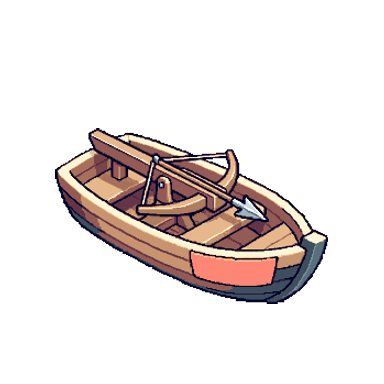
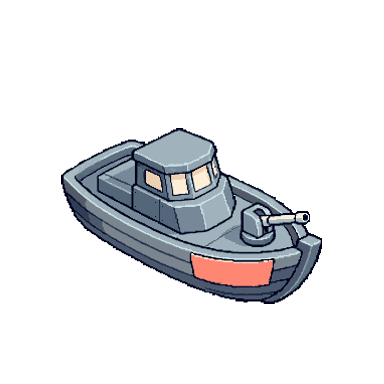
art: replace naval boats with distinct steel warships

Changed region(s): [[0.125, 0.3125, 0.875, 0.8125]]

diff --git a/scripts/art/ruleset7-naval-review.ts b/scripts/art/ruleset7-naval-review.ts
@@ -67,6 +67,14 @@ interface RecordEntry {
       readonly sha256?: string;
     };
   };
+  readonly rejectedAttempts?: readonly {
+    readonly request?: {
+      readonly styleReference?: {
+        readonly id?: string;
+        readonly sha256?: string;
+      };
+    };
+  }[];
 }
 
 const source = JSON.parse(
@@ -741,10 +749,15 @@ async function assertReceiptsAndOrder(): Promise<void> {
   );
   if (
     patrolReference?.id !== unitIds[0] ||
-    patrolReference.sha256 !== historical.sha256 ||
+    patrolReference.sha256 !== generated.records[unitIds[0]]?.outputSha256 ||
     historical.id !== unitIds[0] ||
     hash(await readFile(path.join(root, historical.path))) !==
       historical.sha256 ||
+    !generated.records[unitIds[1]]?.rejectedAttempts?.some(
+      (attempt) =>
+        attempt.request?.styleReference?.id === historical.id &&
+        attempt.request.styleReference.sha256 === historical.sha256,
+    ) ||
     battleshipReference?.id !== unitIds[1] ||
     battleshipReference.sha256 !== generated.records[unitIds[1]]?.outputSha256
   )
@@ -769,8 +782,9 @@ async function writeEvidence(): Promise<void> {
       portraits: unitIds,
     },
     providerStyleReferences: {
-      patrolBoat: recipes.get(unitIds[1])?.historicalStyleReference,
+      patrolBoat: generated.records[unitIds[1]]?.request?.styleReference,
       battleship: generated.records[unitIds[2]]?.request?.styleReference,
+      historicalPatrolBoat: recipes.get(unitIds[1])?.historicalStyleReference,
     },
     conditionalNavigationSymbol: "not-generated-deep-water-readable",
     checks: {
@@ -804,7 +818,7 @@ async function writeEvidence(): Promise<void> {
   );
   await writeFile(
     path.join(reviewRoot, "README.md"),
-    "# Ruleset 7 naval review\n\nChecked evidence for the eight accepted revision-6 naval sources. The sheets cover source, enlarged and native display; water seams and repetition; resource, Port and fleet composition at every supported zoom and DPR; and dense 11 × 11 and 25 × 25 art fixtures. These fixtures review art composition and do not claim runtime renderer coverage. Deep Water remains readable as the Navigation reuse source, so the conditional symbol was not generated.\n",
+    "# Ruleset 7 naval review\n\nChecked evidence for six retained revision-6 naval sources and the revision-7 Patrol Boat and Battleship replacements. The sheets cover source, enlarged and native display; water seams and repetition; resource, Port and fleet composition at every supported zoom and DPR; and dense 11 × 11 and 25 × 25 art fixtures. These fixtures review art composition and do not claim runtime renderer coverage. Deep Water remains readable as the Navigation reuse source, so the conditional symbol was not generated.\n",
   );
 }
 

diff --git a/tests/unit/ruleset7-naval-assets.test.ts b/tests/unit/ruleset7-naval-assets.test.ts
@@ -134,8 +134,7 @@ describe("Ruleset 7 naval assets", () => {
       receiptFor("unit-original-patrol-boat")?.request.styleReference,
     ).toMatchObject({
       id: "unit-shared-embarked-transport",
-      sha256:
[1 lines of base64/hex data omitted]
+      sha256: generated.records["unit-shared-embarked-transport"]?.outputSha256,
     });
     expect(
       hash(
@@ -147,6 +146,14 @@ describe("Ruleset 7 naval assets", () => {
         ),
       ),
[1 lines of base64/hex data omitted]
+    expect(
+      generated.records["unit-original-patrol-boat"]?.rejectedAttempts?.some(
+        (attempt) =>
+          JSON.stringify(attempt).includes(
[1 lines of base64/hex data omitted]
+          ),
+      ),
+    ).toBe(true);
     expect(
       receiptFor("unit-original-battleship")?.request.styleReference,
     ).toMatchObject({

diff --git a/art/pixellab/reviews/ruleset7-naval/README.md b/art/pixellab/reviews/ruleset7-naval/README.md
@@ -1,3 +1,3 @@
 # Ruleset 7 naval review
 
-Checked evidence for the eight accepted revision-6 naval sources. The sheets cover source, enlarged and native display; water seams and repetition; resource, Port and fleet composition at every supported zoom and DPR; and dense 11 × 11 and 25 × 25 art fixtures. These fixtures review art composition and do not claim runtime renderer coverage. Deep Water remains readable as the Navigation reuse source, so the conditional symbol was not generated.
+Checked evidence for six retained revision-6 naval sources and the revision-7 Patrol Boat and Battleship replacements. The sheets cover source, enlarged and native display; water seams and repetition; resource, Port and fleet composition at every supported zoom and DPR; and dense 11 × 11 and 25 × 25 art fixtures. These fixtures review art composition and do not claim runtime renderer coverage. Deep Water remains readable as the Navigation reuse source, so the conditional symbol was not generated.

diff --git a/docs/art/classes/naval.md b/docs/art/classes/naval.md
@@ -10,8 +10,9 @@ It also follows the active square geometry in the
 this file does not give a naval-specific value.
 
 Revision 6 requires real production raster art. Revision 7 replaces the Patrol
-Boat and Battleship sources under their existing asset IDs; the checked-in
-revision-6 sprites remain current runtime evidence until that asset bead lands.
+Boat and Battleship sources under their existing asset IDs. Those replacement
+sprites are accepted production art; revision-7 gameplay integration remains
+pending.
 A solid-color tile, CSS shape,
 emoji, borrowed image, temporary silhouette, or generic code fallback is not an
 acceptable final asset. Generation uses checked-in programmatic PixelLab
